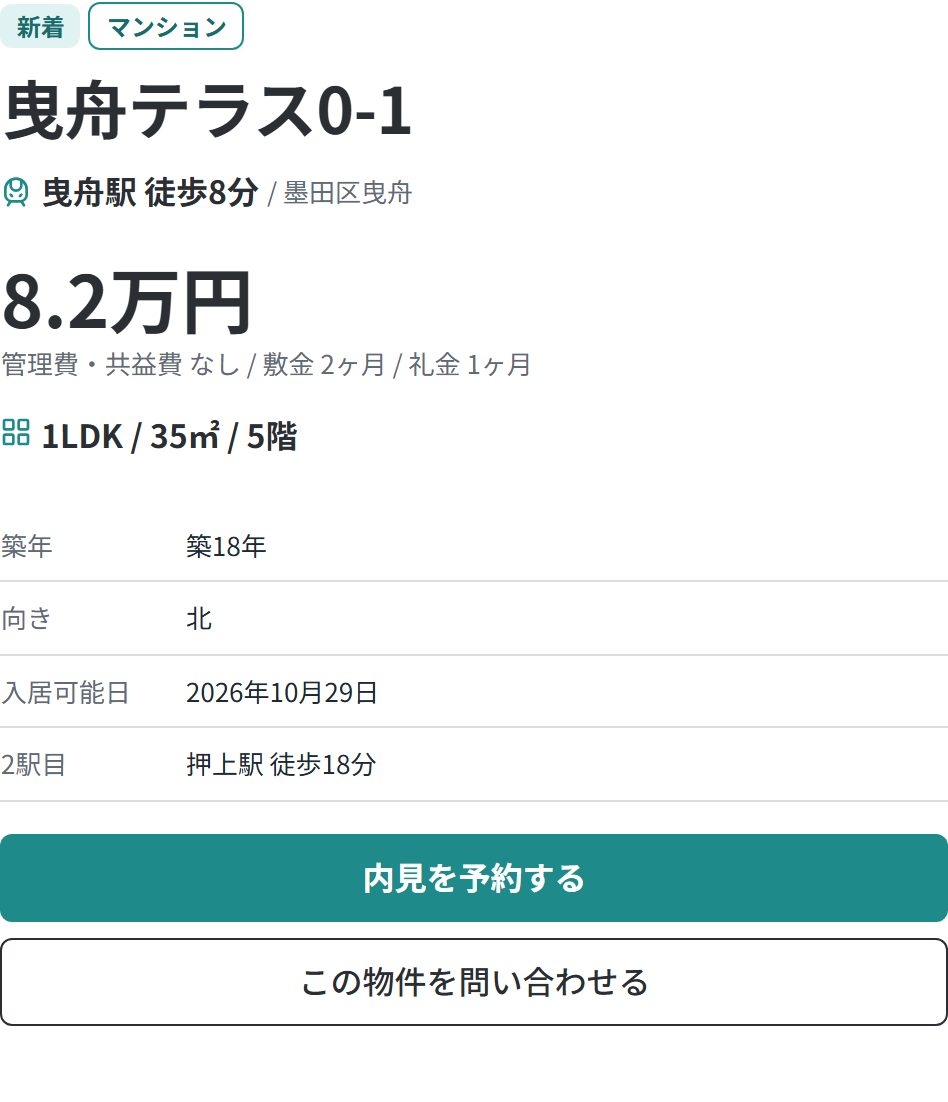
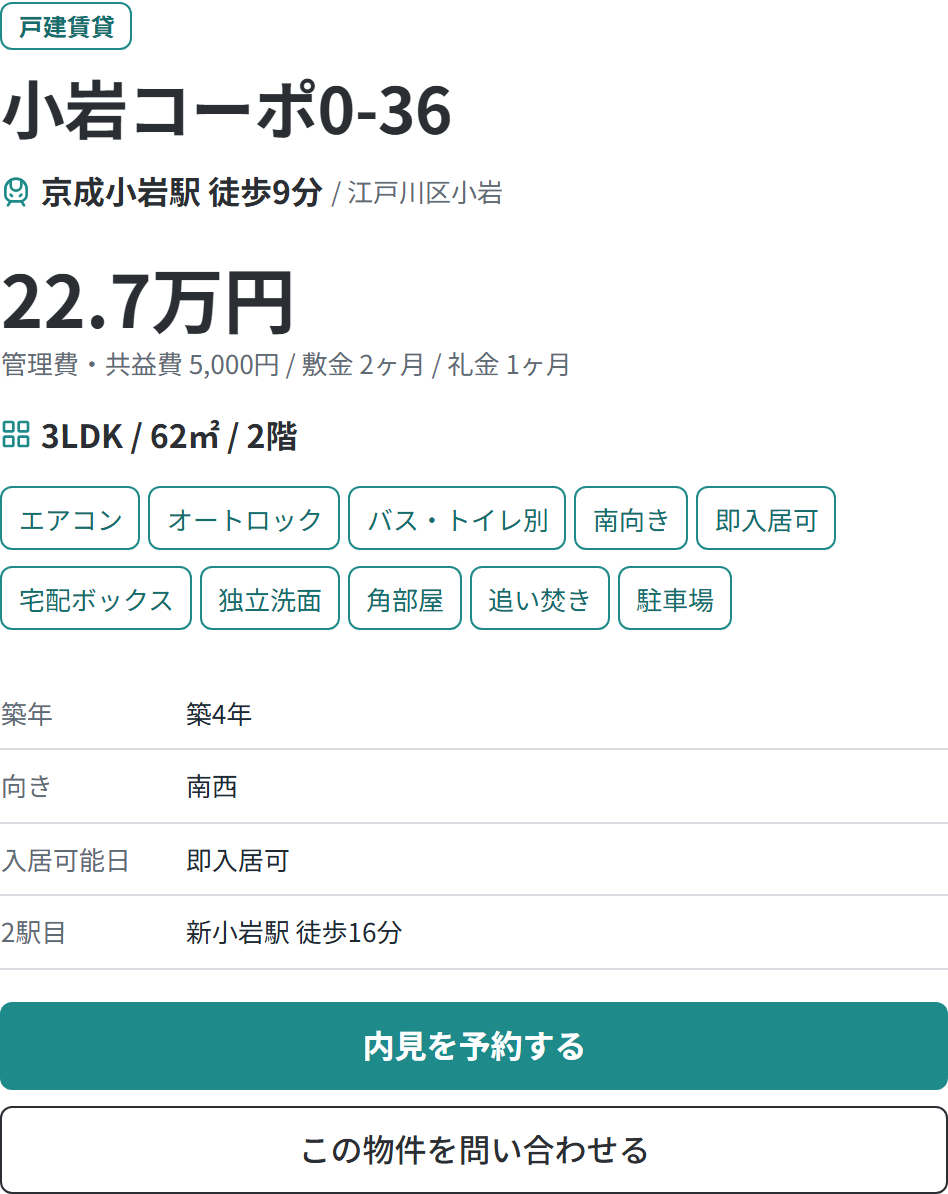
feat: move feature chips into detail sidebar [J-074]

Changed region(s): [[0.0, 0.216, 1.0, 1.0], [0.0, 0.0, 0.5506, 0.1851], [0.5812, 0.2777, 0.6118, 0.3085]]

diff --git a/web/src/components/property/InfoTable.tsx b/web/src/components/property/InfoTable.tsx
@@ -3,12 +3,12 @@ import type { ReactNode } from 'react';
 import type { PropertyDetail } from '@/types/property';
 import { AttrLink } from '@/components/property/AttrLink';
 import { builtLabel, dateLabel, feeLabel, sqmLabel, walkLabel } from '@/lib/format';
-import { addressParts, featureHref, lineHref, stationHref, townHref, wardHref } from '@/lib/links';
+import { addressParts, lineHref, stationHref, townHref, wardHref } from '@/lib/links';
 
 /**
  * 物件概要の表(01 §3-4・03 §6)。J-060 で「決め手 → 設備 → 確認 → 詳細」の4段に整理した。
  *  - 決め手は右カラムに集約したので、ここには出さない(J-070。J-047 の帯・J-059 の3項目は廃止)
- *  - 設備:独立したブロック。アコーディオンには入れない(J-060)
+ *  - 設備:J-074 で右カラム(スペックの下)へ移した。ここには出さない
  *  - 「入居前に確認すること」(売買は「購入前に確認すること」):開いたまま・2列
  *      賃貸 = 管理費・共益費 / 更新料 / 入居可能日 / 向き / 駐車場
  *      売買 = 管理費 / 修繕積立金 / 引渡し / 向き / 駐車場(戸建・土地に無い項目は出さない)
@@ -27,14 +27,12 @@ type Group = { title: string; hint: string; left: Row[]; right: Row[] };
 export function InfoTable({
 	p,
 	stationName,
-	featureName,
 	lineName,
 	area,
 	now,
 }: {
 	p: PropertyDetail;
 	stationName: (s: string) => string;
-	featureName: (s: string) => string;
 	lineName: (s: string) => string;
 	/** 所在地のリンク用:区名・町名と、その区に属する町の slug すべて */
 	area: { wardName: string; townName: string; wardTownSlugs: string[] };
@@ -88,19 +86,6 @@ export function InfoTable({
 		) : (
 			'—'
 		);
-
-	const featureChips =
-		p.features.length > 0 ? (
-			<ul className="flex flex-wrap gap-x-1 gap-y-2" aria-label="設備">
-				{p.features.map((f) => (
-					<li key={f}>
-						<AttrLink href={featureHref(p.type, f)} variant="chip">
-							{featureName(f)}
-						</AttrLink>
-					</li>
-				))}
-			</ul>
-		) : null;
 
 	// ---- 確認(開いたまま)と詳細(畳む)を種別ごとに組み立てる
 	let checkTitle = '入居前に確認すること';
@@ -214,16 +199,6 @@ export function InfoTable({
 
 	return (
 		<div className="space-y-8">
-			{/* 設備:アコーディオンに入れず、独立したブロックのまま(J-060) */}
-			{featureChips && (
-				<section aria-labelledby="info-設備">
-					<h3 id="info-設備" className="mb-2 text-h3 font-bold text-sumi lg:text-h3-pc">
-						設備
-					</h3>
-					{featureChips}
-				</section>
-			)}
-
 			{/* 確認:開いたまま。左 = お金と時期 / 右 = 部屋まわり(J-060) */}
 			{(checkLeft.length > 0 || checkRight.length > 0) && (
 				<section aria-labelledby="info-確認">

diff --git a/web/src/app/properties/[id]/page.tsx b/web/src/app/properties/[id]/page.tsx
@@ -6,6 +6,7 @@ import { notFound } from 'next/navigation';
 import { Container } from '@/components/layout/Container';
 import { Badge } from '@/components/property/Badge';
 import { CtaBlock } from '@/components/property/CtaBlock';
+import { FeatureChips } from '@/components/property/FeatureChips';
 import { Gallery } from '@/components/property/Gallery';
 import { InfoTable } from '@/components/property/InfoTable';
 import { MapLoader } from '@/components/property/MapLoader';
@@ -180,12 +181,16 @@ export default async function PropertyDetailPage({ params }: { params: Promise<{
 							{p.type === 'sale' && p.price != null && p.pricePrevious != null && p.pricePrevious > p.price && (
 								<p className="text-small text-badge-discount-fg">値下げ前 {formatPrice(p.pricePrevious)}</p>
 							)}
-							<p className="mt-3 flex items-baseline gap-1 text-body font-bold text-sumi lg:text-body-pc">
+							<p className="mt-3 flex items-center gap-1 text-body font-bold text-sumi lg:text-body-pc">
 								<LayoutGrid aria-hidden="true" className="size-4 shrink-0 text-accent" />
 								{p.kind === 'land'
 									? `土地 ${sqmLabel(p.sale?.landSqm ?? null)}`
 									: `${p.layout}${p.areaSqm != null ? ` / ${p.areaSqm}㎡` : ''}${p.floor != null ? ` / ${p.floor}階` : ''}`}
 							</p>
+							{/* J-074:設備のチップを物件概要から右カラム(スペックの下・要約の上)へ移した */}
+							<div className="mt-3">
+								<FeatureChips features={p.features} type={p.type} featureName={featureName} />
+							</div>
 							{/*
 							 * 要約(J-039 → J-068 → J-069)。PC(lg 以上)は縦1列にして拾い読みできるようにする。
 							 * ラベルは 6.5em の固定幅(情報表と同じ規則・J-052)。値はその右に詰める。
@@ -221,7 +226,7 @@ export default async function PropertyDetailPage({ params }: { params: Promise<{
 					<h2 className="text-h2 font-bold lg:text-h2-pc">物件概要</h2>
 					{/* J-070:決め手の3項目(J-047 の帯 → J-059 の3項目)は廃止。決め手は右カラムに集約した */}
 					<div className="mt-6">
-						<InfoTable p={p} stationName={stationName} featureName={featureName} lineName={lineName} area={addressArea} now={now} />
+						<InfoTable p={p} stationName={stationName} lineName={lineName} area={addressArea} now={now} />
 					</div>
 				</Container>
 			</section>

diff --git a/web/src/components/property/FeatureChips.tsx b/web/src/components/property/FeatureChips.tsx
@@ -1,0 +1,24 @@
+import { AttrLink } from '@/components/property/AttrLink';
+import { featureHref } from '@/lib/links';
+import type { PropertyType } from '@/types/property';
+
+/**
+ * 設備のチップ(J-052 の押せるチップ)。各チップはその設備で絞った一覧へのリンク(J-051)。
+ * J-074:物件概要の先頭から右カラム(スペックの下・要約の上)へ移した。
+ * 右カラムでは見出しを置かず、チップだけを並べる(「ペット可」「オートロック」など単語で意味が分かるため)。
+ * 読み上げ用にリスト自体へ aria-label="設備" を付ける。
+ */
+export function FeatureChips({ features, type, featureName }: { features: string[]; type: PropertyType; featureName: (slug: string) => string }) {
+	if (features.length === 0) return null;
+	return (
+		<ul className="flex flex-wrap gap-x-1 gap-y-2" aria-label="設備">
+			{features.map((f) => (
+				<li key={f}>
+					<AttrLink href={featureHref(type, f)} variant="chip">
+						{featureName(f)}
+					</AttrLink>
+				</li>
+			))}
+		</ul>
+	);
+}

diff --git a/docs/記録シート.md b/docs/記録シート.md
@@ -113,7 +113,7 @@
 | J-071 | 09/13 | 物件詳細 / Des | 条件追加 | 右カラムの価格のアイコンを文字の大きさに合わせる(20 / 28px・ベースライン揃え)。住所を「墨田区曳舟」の区・町までに | 2 | 済 |
 | J-072 | 09/13 | 物件詳細 / Des | 却下 | J-071 で文字に合わせて大きくした価格のアイコンを廃止。駅徒歩とスペックの 16px は据え置き。価格の左端は他の行と揃える | 2 | 済 |
 | J-073 | 09/13 | 物件詳細 / Des | 条件追加 | 右カラムの駅徒歩と町名を1行に(「曳舟駅 徒歩8分 / 墨田区曳舟」)。町名は小・薄・細字。60件すべてで 1280 は1行に収まることを実測 | 2 | 済 |
-| J-074 | 09/13 | 物件詳細 / Des | 条件追加 | 駅徒歩の行のアイコンを中央揃え(items-center)に。本文サイズはベースラインだとアイコンが上に見えるため。揃え方を文字の大きさで使い分ける | 2 | 済 |
+| J-074 | 09/13 | 物件詳細 / Des・UX | 条件追加 | アイコンの揃えを文字の大きさで使い分け(本文サイズ2行は中央・価格はベースライン)。設備のチップを物件概要から右カラム(スペックの下)へ移動 | 1・2 | 済 |
 | J-075 | | | | | | |
 
 #### 判断の詳細(1判断=1ブロック。「判断の出所」は SHIN が書く。空欄のまま公開しない)
@@ -482,10 +482,14 @@
 - **AIの初案**:J-071 で右カラムの3行をまとめて items-baseline にした(アイコンの下端を文字のベースラインに載せる)
 - **自分の判断**:条件追加 — 駅徒歩の行のアイコンが文字より上にずれて見えるので、この行だけ中央揃え(items-center)にする。価格の行とスペックの行は現状のまま変えない。中央揃えで揃って見えるかを確認し、まだずれるなら微調整して報告
 - **揃え方を行ごとに分ける理由(SHIN 指示で記録)**:ベースライン揃えは「文字の下端にアイコンを載せる」動きなので、文字が大きいほど自然に見える。本文サイズ(15 / 16px)ではアイコンの高さ(16px)が文字の高さとほぼ同じになり、下端を揃えると上に飛び出して見える。大きい文字はベースライン、本文サイズは中央、という使い分けにした
-- **確認(1 の報告)**:中央揃えでアイコンの中心と文字の中心のずれは **0.6px(1280)/ 0.3px(390)**。目で見て揃っているので微調整は入れていない。なお**スペックの行は指示どおり触っていない**ので、ベースライン揃えのまま**アイコンが 1〜1.5px 上**に残っている(1280 で -1px、390 で -1.5px)。同じ本文サイズ・同じ 16px のアイコンなので、揃えるなら同じ items-center にする形になる。指示があれば直す
+- **追記(09/13・指示の差し替え)**:1 は駅徒歩だけでなく**スペックの行も**中央揃えにする。2 として**設備のチップを右カラム(スペックの下・要約の上)へ移す**(移す前にデータと CTA の位置を確認して報告。1280 のファーストビューから主 CTA が外れる場合は止まる)
+- **確認(1 の報告)**:中央揃えにした2行(駅徒歩・スペック)は、アイコンの中心と文字の中心のずれが **0.6px(1280)/ 0.3px(390)**。目で見て揃っているので微調整は入れていない。価格の行はアイコンを持たない(J-072)ので揃えの指定は不要
+- **設備の事前確認(2 の報告)**:60件の設備の数は **最多 10個・最少 0個**(分布:0個4件 / 2個1件 / 3個6件 / 4個7件 / 5個12件 / 6個17件 / 7個7件 / 8個3件 / 9個2件 / 10個1件)。右カラム(幅 486px)では**最多の物件でも2段・高さ 72px**に収まった。1280×800 での主 CTA(内見を予約する)の位置は 設備10個の HR-R-0036 で上端 679px・CTA ブロックの下端 775px なので、**ファーストビューの中に収まっている**(設備3個の売買は上端 658px)。止まる条件には当たらなかったので実装を進めた
+- **見出しの確認(2 の報告)**:物件概要は「入居前に確認すること → 詳細情報(建物 / 契約・掲載)」の2段になった。見出し「物件概要」は、中身が確認事項と詳細データだけになったので少し広すぎる。初案は **「物件データ」**(概要は右カラムが担い、ここは数値と条件の置き場だと分かる)。実装は変えていないので、変えるかは判断をお願いする
+- **390px の見え方(2 の報告)**:右カラムは画像の下に来るので、設備のチップは「スペック → 設備 → 要約(2列×2行)→ CTA」の順に積まれる。390px でも最多10個は3段に収まり、横スクロールは出ない
 - **判断の出所**:
-- **修正後**:page.tsx の駅徒歩の行を items-baseline → items-center に。03 §6 の J-071 の規則に、揃えを文字の大きさで分ける旨を書き足し v0.52
-- **証拠**:docs/screenshots/J-074-after-1280.png / -390.png。実測:駅徒歩の行は 揃え center・ずれ 0.6 / 0.3px、スペックの行は 揃え baseline・ずれ -1 / -1.5px。売買(HR-S-0003)も同じ値・本チャット
+- **修正後**:page.tsx の駅徒歩とスペックの行を items-baseline → items-center に。03 §6 の J-071 の規則に、揃えを文字の大きさで分ける旨を書き足し v0.52。あわせて components/property/FeatureChips.tsx を作って右カラム(スペックの下)に置き、InfoTable から設備のブロックと featureName の prop を外した(物件概要は 確認 → 詳細 の2段)。03 §6 を v0.53
+- **証拠**:docs/screenshots/J-074-after-1280.png / -390.png(右カラム。設備が最多の HR-R-0036)/ J-074-after-summary-1280.png / -summary-390.png(物件概要。設備が無くなり「入居前に確認すること」から始まる)。実測:2行とも 揃え center・ずれ 0.6 / 0.3px、設備10個で2段 72px、主 CTA は 1280×800 の中・本チャット
 
 ### J-073 | 09/13 | 物件詳細 / Des | 章 2
 - **AIの初案**:J-070 で駅徒歩の行を作り、J-071 で町名(区・町)を下の行に薄く置いた。場所の情報が2行に分かれていた
@@ -874,6 +878,7 @@
 
 ---
 
+※2026-09-13 更新(5):J-074 に追記(スペックの行も中央揃え・設備のチップを右カラムへ移動)。03 v0.53。
 ※2026-09-13 更新(4):J-074(駅徒歩の行のアイコンを中央揃えに)を追加。03 v0.52。J-075 は空行。
 ※2026-09-13 更新(3):J-073(駅徒歩と町名を1行に)を追加。03 v0.51。J-074 は空行。
 ※2026-09-13 更新(2):J-072(価格のアイコンを廃止・左端を他の行と揃える)を追加。03 v0.50。J-073 は空行。
